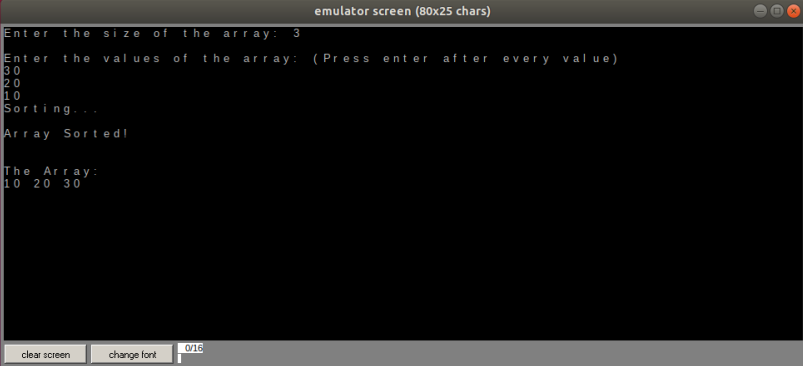
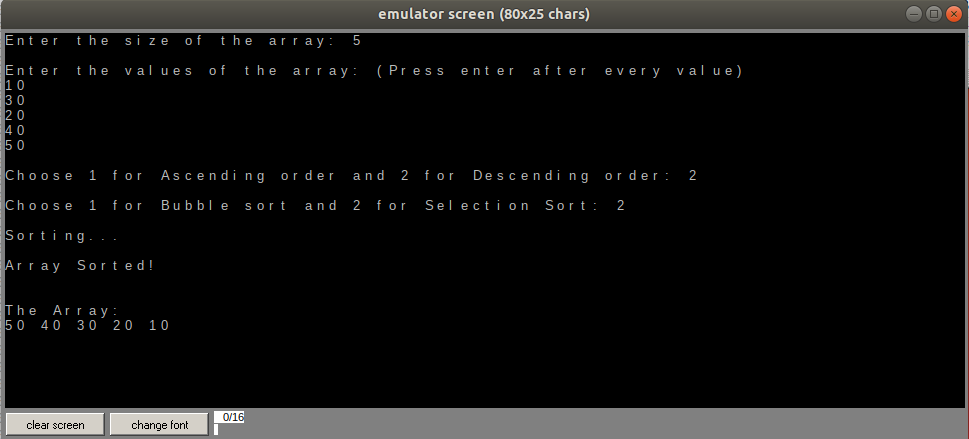
Add selection sort

diff --git a/README.md b/README.md
@@ -10,20 +10,15 @@ The program is built on ***emu8086 emulator*** and uses its inbuilt functions.
 
 ## What has been accomplished?
 
-- The program takes input from the user.
-- BUBBLE SORT in ascending order has been implemented right now
+- The program takes input from the user and has toggles for choosing between ascending and descending order and between bubble and selection sort
 
 ## Structure
 
-- The program has been divided into 4 modules: ___MAIN___, ___take_input___, ___print_array___ and ___sort_bubble_asc___.
+- The program has been divided into 9 modules: ___MAIN___, ___take_input___, ___print_array___ and ___sort_bubble_asc___, ___sort_bubble_desc___, ___sort_select_asc___, ___sort_select_desc___, ___asc_or_desc___, ___selection_or_bubble___
 
-### What is yet to be implemented?
-<hr />
+## FLOW
 
-- Bubble Sort in descending order.
-- User menu for selecting between ascending or descending
-- Selection Sort
-- User menu for deciding between selection sort and bubble sort.
+MAIN -> Take Input -> asc_or_desc -> selection_or_bubble (which calls the appropriate functions) -> print_array
 
 #### CREDITS
 <hr />
